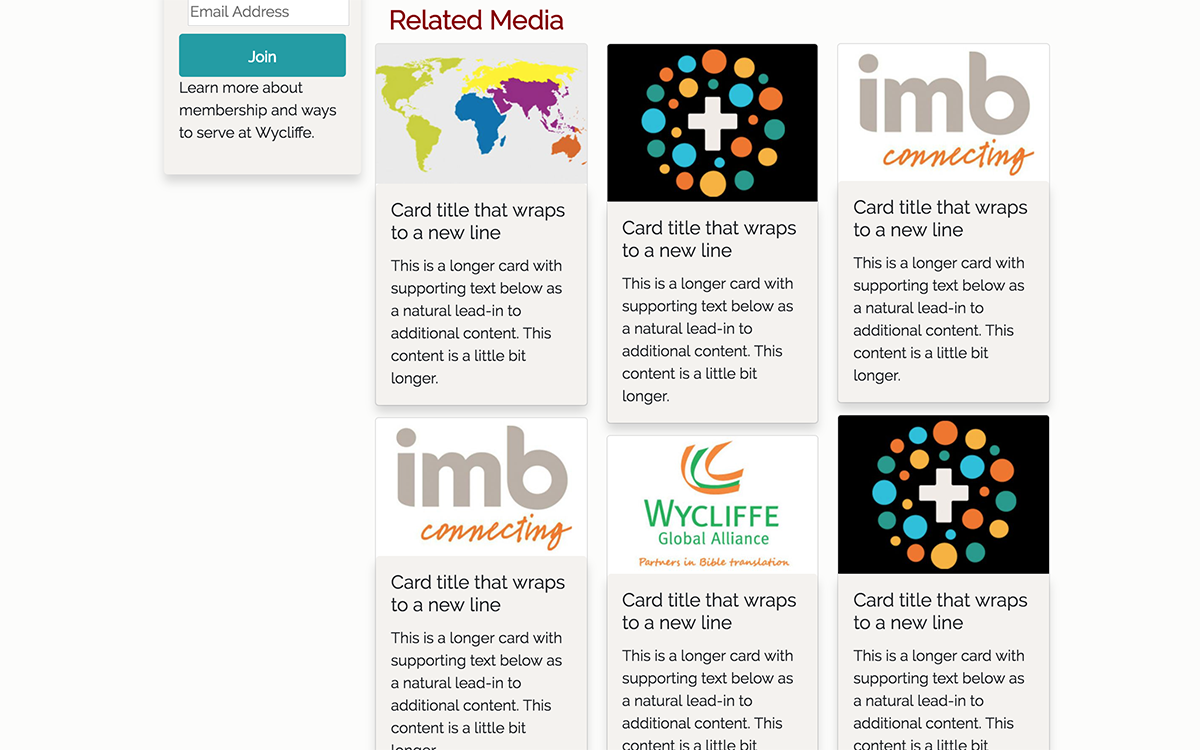
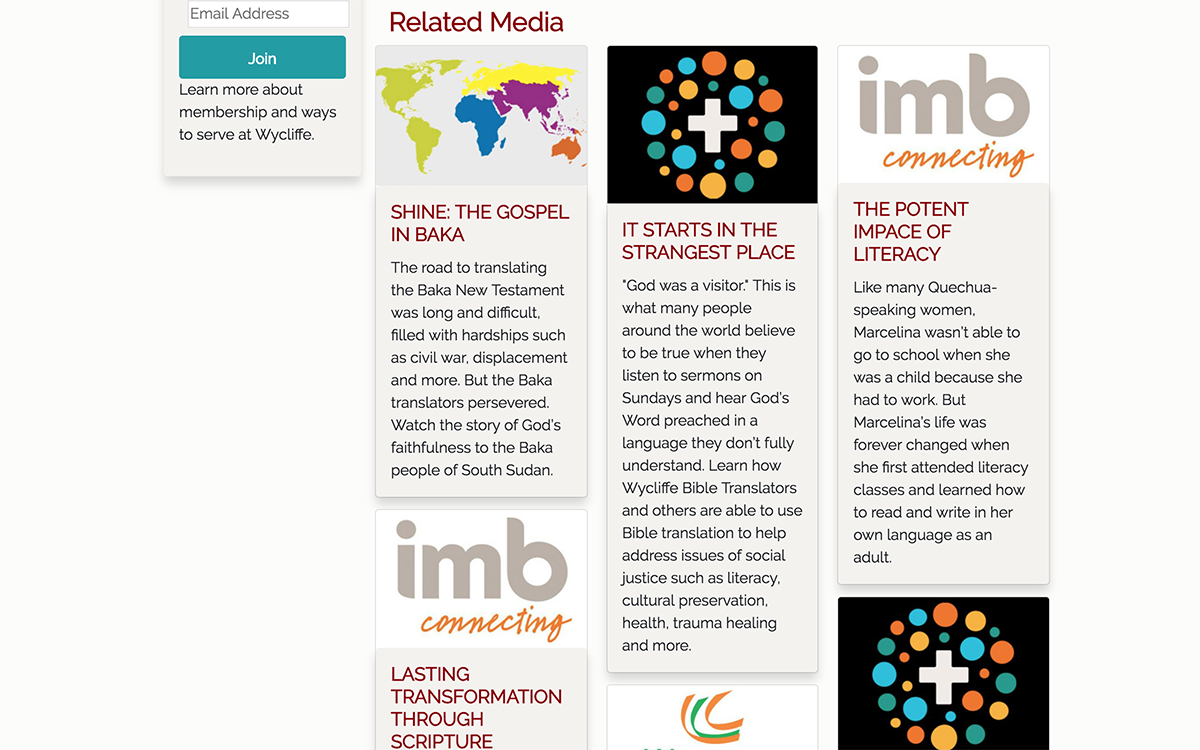
Media content update, code formatting

diff --git a/public/assets/css/style.css b/public/assets/css/style.css
@@ -57,3 +57,9 @@
     #navHead {
         height: 70px;
     }
+
+    .card-title {
+        color: darkred;
+        text-transform: uppercase;
+        font-weight: bold;
+    }
